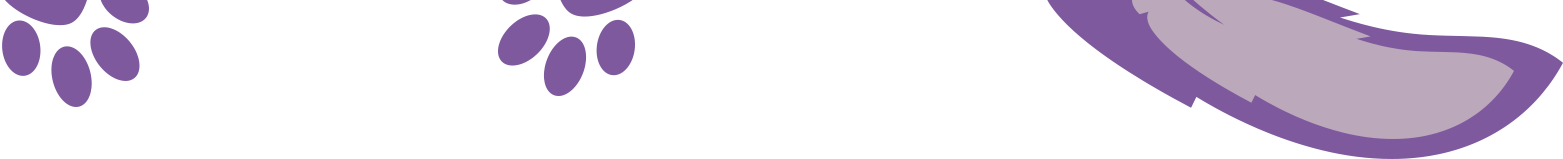
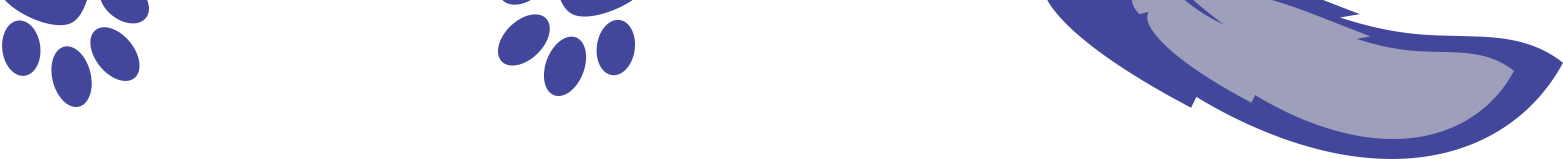
update colors

Changed region(s): [[0.6449, 0.0, 1.0, 1.0], [0.3071, 0.0, 0.4299, 0.6038], [0.0, 0.0, 0.1228, 0.6792]]

diff --git a/src/index.html b/src/index.html
@@ -181,24 +181,13 @@
       </div>
     </section>
     <section id="reserve" class="d-none">
-      <div class="container-fluid" hidden>
+      <div class="container-fluid">
         <div class="row">
-          <div class="col-2 bg bg-1 d-none d-lg-block"></div>
           <div class="col">
             <h2>Get Your Seat!</h2>
             <p class="mb-5 mt-3" id="reserve-copy">
-              Fill out the form to be added to the general list.
-              From there you'll be taken to square for payment, and you will be emailed additional info.
-              Once you have submitted your payment, you will be added to the confirmed list, and your seat will
-              be reserved! If you have to change your plans, you will have until April 15 2018 to request a refund.
-              By submitting, you agree to all the following rules and conditions.
-            </p>
-            <p class="mb-5 mt-3" id="info-copy">
-              Fill out your email below to start the reservation process. Providing your email will
-              add you to the interest list, so you won't miss any updates, and will get reminders to
-              finish your registration. If you can not attend for any reason you are still encouraged
-              to sign up and provide feedback. <b>Providing feedback early means we can still update the details of the trip</b>
-              If you have any questions, reach out via the <a href="https://t.me/blfcbaybus">Big Lit Fur Coach Telegram</a>
+              Once you are ready, fill out the form below to sign up for the Big Lit Fur Coach.
+              When you finish, you will find a link in your email to pay and complete your registration.
             </p>
             <div class="alert alert-danger" id="form-errors"></div>
             <div class="alert alert-primary" id="form-feedback"></div>
@@ -206,13 +195,13 @@
               <div class="row">
                 <div class="col-12 col-md">
                   <div class="form-group">
-                    <label for="name">Name (must match ID)</label>
+                    <label for="name">Legal Name</label>
                     <input type="text" class="form-control" name="name" id="name" placeholder="John Smith" />
                   </div>
                 </div>
                 <div class="col offset-md-1">
                   <div class="form-group">
-                    <label for="char_name">Character/Display Name</label>
+                    <label for="char_name">Display Name</label>
                     <input type="text" class="form-control" name="char_name" id="char_name" placeholder="Yukine" />
                   </div>
                 </div>
@@ -222,7 +211,7 @@
                   <div class="form-group">
                     <label for="email">Email</label>
                     <input type="email" class="form-control" name="email" id="email" placeholder="fuzzbutt@furry.yiff" />
-                    <small id="emailHelp" class="form-text text-muted">Used to validate, and send confirmation emails</small>
+                    <small id="emailHelp" class="form-text text-muted">Where your confirmation will be sent</small>
                   </div>
                 </div>
                 <div class="col offset-md-1">
@@ -272,26 +261,7 @@
                 </div>
               </div>
             </form>
-            <form id="info-form">
-              <div class="row">
-                <div class="col-12 col-md">
-                  <div class="form-group">
-                    <label for="infoEmail">Email</label>
-                    <input type="text" class="form-control" name="infoEmail" id="infoEmail" placeholder="fuzzbutt@furry.yiff" />
-                  </div>
-                </div>
-              </div>
-              <div class="row justify-content-center mt-5">
-                <div class="col-12 col-md-auto mb-5">
-                  <button type="button" class="btn btn-primary btn-lg mr-5" id="info-submit">Save & Register Later</button>
-                </div>
-                <div class="col-12 col-md-auto">
-                  <button type="button" class="btn btn-primary btn-lg" id="info-reg">Save & Register Now</button>
-                </div>
-              </div>
-            </form>
           </div>
-          <div class="col-2 bg bg-2 d-none d-lg-block"></div>
         </div>
     </section>
     <section id="social" class="d-none">

diff --git a/src/index.js b/src/index.js
@@ -109,66 +109,6 @@ const doPost = (e) => {
     });
 };
 
-const handleInfoSubmit = (e) => {
-  const $form = $('#info-form');
-  const $form2 = $('#reserve-form');
-  const $errors = $('#form-errors');
-  const $feedback = $('#form-feedback');
-  const $email = $('#infoEmail');
-
-  e.preventDefault();
-  e.stopPropagation();
-
-  if (!$email.val()) {
-    $errors.text('Please provide a valid email');
-    $errors.show();
-
-    return;
-  }
-
-  $.post('http://api.yukine.me/blfc/interest', { email: $email.val() })
-    .then(() => {
-      $form.hide();
-      $errors.hide();
-      $feedback.hide();
-      $('#info-copy').hide();
-      $('#reserve-copy').show();
-      $feedback.text('All Set, look for updates in your inbox');
-      $('#email').val($email.val());
-      $form2.show();
-    })
-    .catch((err) => {
-      console.error(err); //eslint-disable-line
-
-      $errors.text((err.responseJSON && err.responseJSON.error) || err.responseText);
-      $errors.show();
-    });
-};
-
-const moveToReg = (e) => {
-  const $feedback = $('#form-feedback');
-  const $email = $('#infoEmail');
-  const $form = $('#info-form');
-  const $form2 = $('#reserve-form');
-
-  e.preventDefault();
-  e.stopPropagation();
-
-  if (!$email.val()) {
-    $feedback.text('Please provide a valid email');
-    $feedback.show();
-
-    return;
-  }
-
-  $('#email').val($email.val());
-  $form.hide();
-  $('#info-copy').hide();
-  $('#reserve-copy').show();
-  $form2.show();
-};
-
-
 const getRiderBlock = rider => `
 <div class="social-container mb-3">
   <div class="social-content d-flex">
@@ -220,17 +160,12 @@ const handleStart = () => {
 
 const init = () => {
   const $submit = $('#reserve-submit');
-  const $infoSubmit = $('#info-submit');
-  const $infoReg = $('#info-reg');
   const $termsSubmit = $('#terms-modal button');
   const $start = $('#start');
-  const confirmedMessage = '<span>You are all set! Thanks for riding with us! Please fill out the <a href="https://docs.google.com/forms/d/e/1FAIpQLSeL6P964tdx6-VHJ1Jq8jpHQQHHTCAiiQz0eQx_bVb0aeGt2g/viewform?usp=sf_link"> luggage form </a> to help us plan!</span>';
 
   setTimeout(() => {
     $('#form-errors').hide();
     $('#form-feedback').hide();
-    $('#reserve-form').hide();
-    $('#reserve-copy').hide();
 
     if (window.location.search.includes('confirmed=true&cid=')) {
       $('#reserve-form').hide();
@@ -238,20 +173,9 @@ const init = () => {
       window.location.href = '#';
       window.location.href = '#reserve';
     }
-
-    if (window.location.search.includes('reserveCb=true')) {
-      $('#reserve-form').show();
-      $('#reserve-copy').show();
-      $('#info-form').hide();
-      $('#info-copy').hide();
-      window.location.href = '#';
-      window.location.href = '#reserve';
-    }
   });
 
   $submit.on('click', handleSubmit);
-  $infoSubmit.on('click', handleInfoSubmit);
-  $infoReg.on('click', moveToReg);
   $termsSubmit.on('click', doPost);
   $start.on('click', handleStart);
 

diff --git a/src/styles/style.sass b/src/styles/style.sass
@@ -1,6 +1,6 @@
 @import ./bootstrap
 
-$purple: #7e599d
+$purple: #43479b
 $body: #362f2d
 
 @font-face
